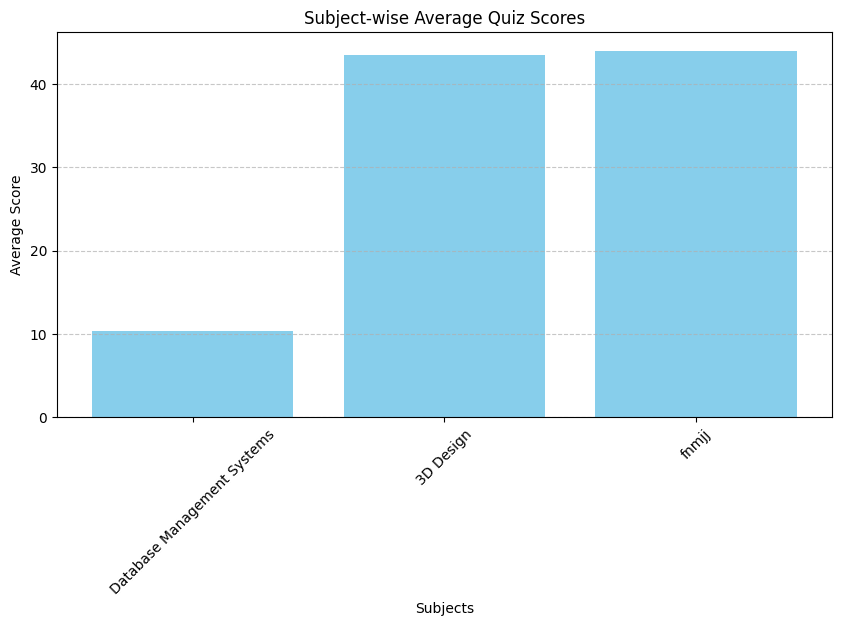
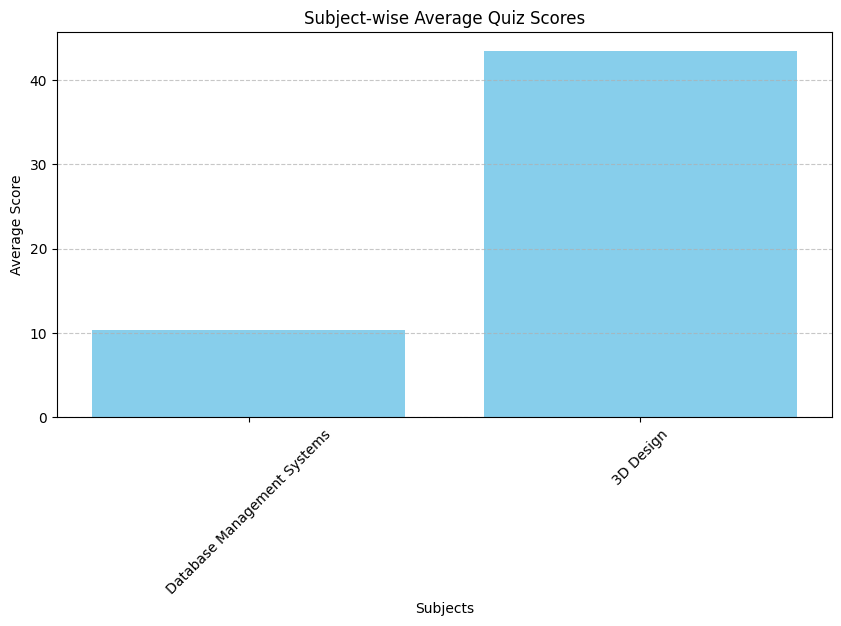
Fixing Summary Part

diff --git a/application/controllers.py b/application/controllers.py
@@ -919,11 +919,11 @@ def admin_summary():
         plt.grid(axis="y", linestyle="--", alpha=0.7)
 
         # Save image to static folder
-        img_path = os.path.join("static", "subject_avg_scores.png")
-        plt.savefig(img_path, bbox_inches="tight")
+        img_path1 = os.path.join("static", "subject_avg_scores.png")
+        plt.savefig(img_path1, bbox_inches="tight")
         plt.close()
     else:
-        img_path = None  # No data, no graph
+        img_path1 = None  # No data, no graph
     
 
     # Finding subject wise enrolled users
@@ -964,7 +964,7 @@ def admin_summary():
         total_inst=total_inst,
         total_quizzes=total_quizzes,
         avg_scores_data=avg_scores_data,
-        chart_url1=url_for("static", filename="subject_avg_scores.png") if img_path else None,
+        chart_url1=url_for("static", filename="subject_avg_scores.png") if img_path1 else None,
         chart_url2=url_for("static", filename="subject_enroll.png")
     )
 
@@ -1281,8 +1281,13 @@ def user_summary(user_id):
     no_enrolled_sub=len(this_user.subjects)
     scores =Score.query.filter_by(user_id=user_id).all()
     scores = [score.total_score for score in scores]  # Extract total scores
-    avg_score = round(sum(scores) / len(scores), 2)
-    
+    if len(scores)>0:
+        avg_score = round(sum(scores) / len(scores), 2)
+    else:
+        avg_score = 0
+
+
+
 
     #Total No. of quiz attempted by the user
     total_quizzes = Quiz.query.count()  # Total number of quizzes
@@ -1301,6 +1306,7 @@ def user_summary(user_id):
         .join(Chapter, Subject.id == Chapter.subject_id)
         .join(Quiz, Chapter.id == Quiz.chapter_id)
         .join(Score, Quiz.id == Score.quiz_id)
+        .filter(Score.user_id==user_id)
         .group_by(Subject.name)
         .all()
     )
